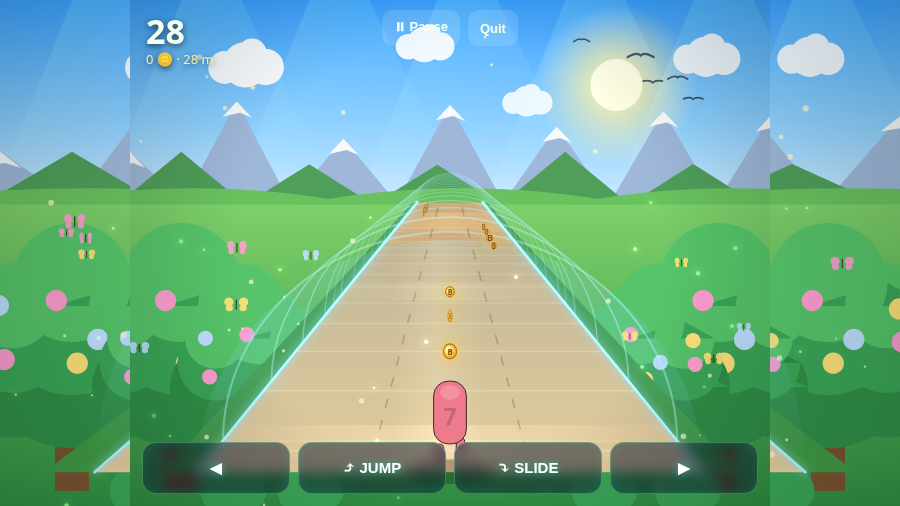
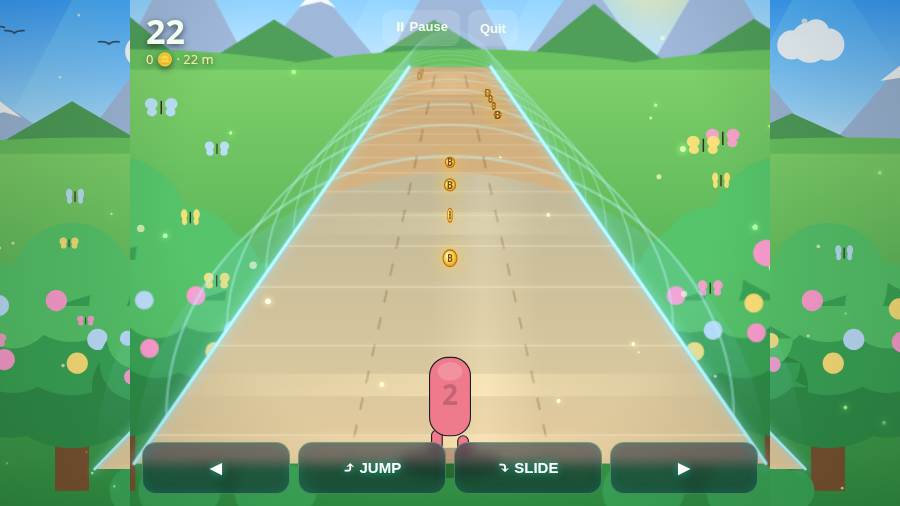
feat(camera+tunnel): editable camera.horizon (more-down angle); tunnel frosted-glass blur + glass texture (world.tunnel.blur/.texture); split outside vs tunnel layers

diff --git a/public/js/underwater.js b/public/js/underwater.js
@@ -17,12 +17,18 @@
   const FOCAL = 10, VIEW = 72, PLAYER_Z = 0.6, LANE_EDGE = 1.55;
   const W_ = () => (window.BlobbieTheme && window.BlobbieTheme.world) || {};
   const def = (v, d) => (v == null ? d : v);
+  const camH = () => {
+    const v = window.BlobbieTheme && window.BlobbieTheme.camera && window.BlobbieTheme.camera.horizon;
+    return Math.max(0.15, Math.min(0.55, (typeof v === 'number' && isFinite(v)) ? v : 0.30));
+  };
 
   class BlobbieDashUnderwaterBackground {
     constructor() {
       this.W = 0; this.H = 0; this.dpr = 1;
       this.staticCanvas = (typeof document !== 'undefined') ? document.createElement('canvas') : null;
       this.sctx = this.staticCanvas ? this.staticCanvas.getContext('2d') : null;
+      this.tunnelCanvas = (typeof document !== 'undefined') ? document.createElement('canvas') : null;
+      this.tctx = this.tunnelCanvas ? this.tunnelCanvas.getContext('2d') : null;
       this.fliers = []; this.pollen = []; this.motes = [];
       this.time = 0; this._built = false;
       this._tex = {}; // loaded texture images
@@ -50,7 +56,7 @@
       this.imageBg = !!(window.BlobbieTheme && window.BlobbieTheme.gameplayBackground);
       if (this._built && this.W === W && this.H === H && this.dpr === dpr) return;
       this.W = W; this.H = H; this.dpr = dpr;
-      this.horizonY = H * 0.40;
+      this.horizonY = H * camH();
       this.groundY = H * 0.97;
       this.centerX = W / 2;
       this.spread = W * 0.27;
@@ -59,21 +65,37 @@
       this.roadNearR = this.project(PLAYER_Z, LANE_EDGE, 0);
       this.roadFarR = this.project(VIEW, LANE_EDGE, 0);
       this._buildStatic();
+      this._buildTunnel();
       this._seed();
       this._loadTextures();
       this._built = true;
     }
 
+    _rebuild() { this._buildStatic(); this._buildTunnel(); }
+
+    _buildTunnel() {
+      const c = this.tunnelCanvas, ctx = this.tctx;
+      if (!c) return;
+      c.width = Math.round(this.W * this.dpr);
+      c.height = Math.round(this.H * this.dpr);
+      ctx.setTransform(this.dpr, 0, 0, this.dpr, 0, 0);
+      ctx.clearRect(0, 0, this.W, this.H);
+      this._drawPath(ctx); // floor + glass + ribs onto the (transparent) tunnel layer
+    }
+
     _loadTextures() {
       const tx = W_().textures || {};
-      ['sky', 'ground', 'road'].forEach((k) => {
-        if (tx[k] && (!this._tex[k] || this._tex[k]._src !== tx[k])) {
+      const tnl = W_().tunnel || {};
+      const map = { sky: tx.sky, ground: tx.ground, road: tx.road, tunnel: tnl.texture };
+      Object.keys(map).forEach((k) => {
+        const url = map[k];
+        if (url && (!this._tex[k] || this._tex[k]._src !== url)) {
           const img = new Image();
-          img._src = tx[k];
-          img.onload = () => { this._tex[k] = img; this._buildStatic(); };
+          img._src = url;
+          img.onload = () => { this._tex[k] = img; this._rebuild(); };
           img.onerror = () => {};
-          img.src = tx[k];
-        } else if (!tx[k]) { delete this._tex[k]; }
+          img.src = url;
+        } else if (!url) { delete this._tex[k]; }
       });
     }
 
@@ -147,7 +169,7 @@
       }
 
       this._drawTrees(ctx);
-      this._drawPath(ctx);
+      // (the glass tunnel is built separately into tunnelCanvas via _buildTunnel)
     }
 
     _drawClouds(ctx) {
@@ -258,14 +280,6 @@
       const tnl = w.tunnel || {};
       const nL = this.roadNearL, nR = this.roadNearR, fL = this.roadFarL, fR = this.roadFarR;
 
-      // ground just outside the tunnel (skip in image mode so backdrop shows)
-      if (!this.imageBg) {
-        ctx.save(); ctx.fillStyle = def(w.pathBorder, '#3f9a46');
-        const eL = this.project(PLAYER_Z, -LANE_EDGE - 0.22, 0), eFL = this.project(VIEW, -LANE_EDGE - 0.22, 0);
-        const eR = this.project(PLAYER_Z, LANE_EDGE + 0.22, 0), eFR = this.project(VIEW, LANE_EDGE + 0.22, 0);
-        this._roundedTrap(ctx, eL, eR, eFL, eFR); ctx.fill(); ctx.restore();
-      }
-
       // ---- FLOOR (running surface) — drawn first so it stays clean ----
       const pathC = def(w.path, ['#cda978', '#dcbe8c', '#e9d2a4']);
       const path = ctx.createLinearGradient(0, this.horizonY, 0, this.H);
@@ -294,6 +308,18 @@
       ctx.fillStyle = body;
       ctx.fillRect(0, top, this.W, near.ry + 4);
       ctx.restore();
+
+      // ---- optional GLASS TEXTURE overlay (clipped to the arch) ----
+      if (this._tex.tunnel) {
+        ctx.save();
+        ctx.beginPath();
+        ctx.ellipse(near.cx, near.baseY, near.rx, near.ry, 0, Math.PI, 2 * Math.PI); ctx.closePath();
+        ctx.clip();
+        ctx.globalAlpha = (typeof tnl.textureAlpha === 'number') ? tnl.textureAlpha : 0.5;
+        this._cover(ctx, this._tex.tunnel, near.cx - near.rx, near.baseY - near.ry, near.rx * 2, near.ry);
+        ctx.restore();
+        ctx.globalAlpha = 1;
+      }
 
       // ---- TUBE RIBS (top arches receding to the vanishing point) ----
       ctx.save(); ctx.lineCap = 'round';
@@ -410,11 +436,28 @@
     draw(ctx) {
       if (!this._built) return;
       if (this.imageBg) ctx.clearRect(0, 0, this.W, this.H); // let the GIF/image show behind
-      ctx.drawImage(this.staticCanvas, 0, 0, this.W, this.H);
-      this._drawFliers(ctx);
-      this._drawLiquid(ctx);     // flowing liquid-glass highlights on the tunnel
-      this._drawSunDapples(ctx); // light on the floor
+      ctx.drawImage(this.staticCanvas, 0, 0, this.W, this.H); // OUTSIDE world
+      this._drawFliers(ctx);     // birds + butterflies (outside, behind glass)
       this._drawPollen(ctx);
+
+      // frosted glass: blur the world seen THROUGH the tunnel (editable)
+      const tnl = W_().tunnel || {};
+      const blur = (typeof tnl.blur === 'number') ? tnl.blur : 0;
+      if (blur > 0 && !this.imageBg && this.staticCanvas) {
+        const near = this._ringAt(PLAYER_Z);
+        ctx.save();
+        ctx.beginPath();
+        ctx.ellipse(near.cx, near.baseY, near.rx, near.ry, 0, Math.PI, 2 * Math.PI); ctx.closePath();
+        ctx.clip();
+        ctx.filter = 'blur(' + Math.min(24, blur) + 'px)';
+        ctx.drawImage(this.staticCanvas, 0, 0, this.W, this.H);
+        ctx.filter = 'none';
+        ctx.restore();
+      }
+
+      ctx.drawImage(this.tunnelCanvas, 0, 0, this.W, this.H); // glass tunnel + floor + ribs
+      this._drawLiquid(ctx);     // flowing liquid-glass highlights
+      this._drawSunDapples(ctx); // light on the floor
       this._drawFireflies(ctx);
       this._drawSparkle(ctx);
       if (!this.imageBg) this._drawVignette(ctx);

diff --git a/public/theme.js b/public/theme.js
@@ -63,6 +63,9 @@ window.BlobbieTheme = {
       rib:    'rgba(190, 245, 255, 0.55)', // the tube "ribs" (glass rings)
       gloss:  'rgba(255, 255, 255, 0.6)',  // moving glass highlights / shine
       rim:    '#9fe9ff',                    // neon wall-base line along the floor edges
+      blur:   0,    // frosted glass: blur (px) of the world seen THROUGH the tunnel (0 = clear)
+      texture: null, // optional image laid over the glass, e.g. 'assets/textures/glass.png'
+      textureAlpha: 0.5,
     },
     laneLine:      'rgba(120,90,50,0.35)', // lane divider color
     archVine:      '#2f8f48',  // overhead vine archway color
@@ -110,7 +113,11 @@ window.BlobbieTheme = {
    * (Blobbie and obstacles look bigger), lower = pulled back. Range ~0.8–2.2.
    */
   camera: {
-    zoom: 1.25,
+    zoom: 1.25,    // closeness to Blobbie (1 = default, higher = closer)
+    // Camera angle / tilt: where the horizon sits (fraction of screen height).
+    // LOWER = camera looks more DOWN (more floor / top-down), HIGHER = flatter.
+    // Range ~0.15–0.55.
+    horizon: 0.30,
   },
 
   /* ---------------------------------------------------------- CHARACTER ----

diff --git a/public/js/game.js b/public/js/game.js
@@ -93,7 +93,7 @@
       this.canvas.height = Math.round(h * dpr);
       this.ctx.setTransform(dpr, 0, 0, dpr, 0, 0);
       this.W = w; this.H = h;
-      this.horizonY = h * 0.40; // matches the shared world background's horizon
+      this.horizonY = h * this._camHorizon(); // matches the shared world background
       this.groundY = h * 0.97;
       this.centerX = w / 2;
       this.spread = w * 0.27;
@@ -390,6 +390,10 @@
       const z = window.BlobbieTheme && window.BlobbieTheme.camera && window.BlobbieTheme.camera.zoom;
       const v = (typeof z === 'number' && isFinite(z)) ? z : 1.25;
       return Math.max(0.8, Math.min(2.2, v));
+    }
+    _camHorizon() {
+      const v = window.BlobbieTheme && window.BlobbieTheme.camera && window.BlobbieTheme.camera.horizon;
+      return Math.max(0.15, Math.min(0.55, (typeof v === 'number' && isFinite(v)) ? v : 0.30));
     }
 
     // ---- rendering ----

diff --git a/CUSTOMIZE.md b/CUSTOMIZE.md
@@ -56,6 +56,9 @@ sees the outside scene through it. Colors live in `world.tunnel`:
 | `rib` | the tube rings / ribs |
 | `gloss` | the moving liquid-glass highlights |
 | `rim` | glowing line where the glass wall meets the floor |
+| `blur` | **frosted glass** — blur (px) of the world seen *through* the tunnel (0 = clear) |
+| `texture` | optional image laid over the glass, e.g. `'assets/textures/glass.png'` |
+| `textureAlpha` | opacity of that glass texture (0–1) |
 
 ```js
 world: { tunnel: { glass: 'rgba(255,150,90,0.12)', rib: 'rgba(255,200,150,0.5)', rim: '#ffcf8a' } }
@@ -168,12 +171,16 @@ gameplayBackgroundMode: 'cover', // or 'contain'
 Set how close the camera sits to Blobbie in `theme.js`:
 
 ```js
-camera: { zoom: 1.25 } // 1 = default, higher = closer, lower = pulled back (~0.8–2.2)
+camera: {
+  zoom: 1.25,    // 1 = default, higher = closer, lower = pulled back (~0.8–2.2)
+  horizon: 0.30, // camera ANGLE: where the horizon sits (fraction of height).
+                 // LOWER = look more DOWN (more floor / top-down), HIGHER = flatter. (~0.15–0.55)
+}
 ```
 
-It scales the whole scene around Blobbie's feet (he stays anchored at the bottom),
-so a higher value makes Blobbie and obstacles look bigger/closer. It's purely
-visual — gameplay and collisions are unchanged.
+`zoom` scales the scene around Blobbie's feet (he stays anchored at the bottom).
+`horizon` tilts the camera: lower values push the horizon up so you see more of the
+floor (a more downward angle). Both are purely visual — gameplay is unchanged.
 
 ## 10. Speed lines & effects
 
